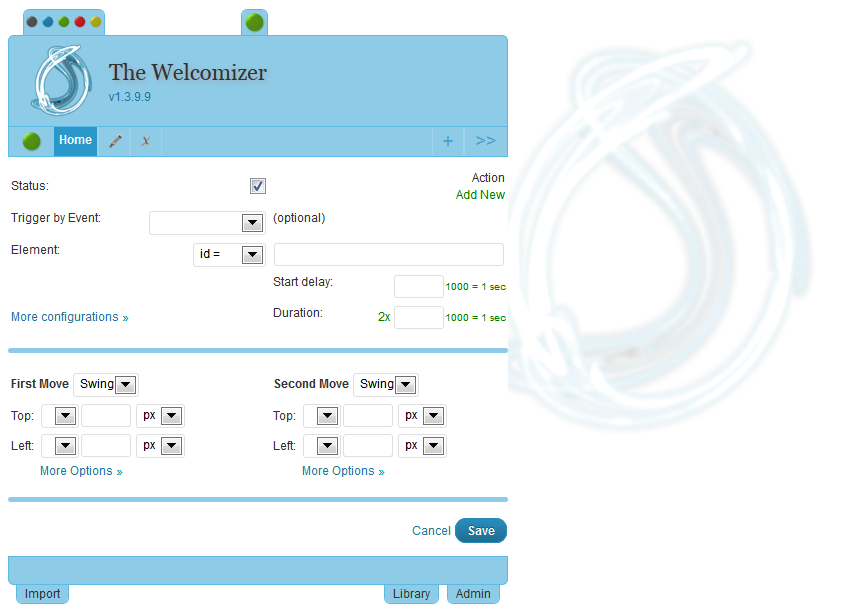
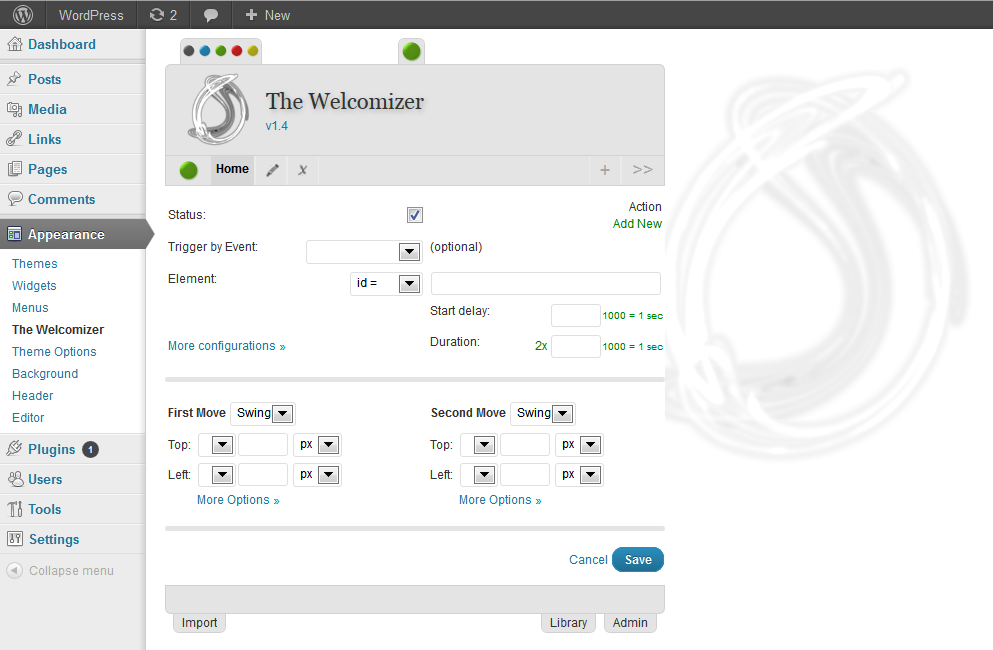
v1.4
git-svn-id: https://plugins.svn.wordpress.org/the-welcomizer/trunk@503533 b8457f37-d9ea-0310-8a92-e5e31aec5664

diff --git a/skins/_default/twiz-style.css b/skins/_default/twiz-style.css
@@ -17,7 +17,6 @@
     display: none;
 }
 .twiz-loading-gif {
-    display: none;
     width: 20px;
     height: 20px;
     margin: 0px 1px;
@@ -25,14 +24,7 @@
 .twiz-loading-gif-action {
     width: 20px;
     height: 20px;
-    display: none;
     margin: 0px 1px 0 2px;
-}
-.twiz-loading-gif-action-d {
-    width: 20px;
-    height: 20px;
-    display: none;
-    margin: 0px 1px 0 1px;
 }
 .twiz-clear {
     clear: both;
@@ -411,6 +403,7 @@
     width: 500px;
 }    
 .twiz_list_tr_action {
+    height: 20px;
     visibility: hidden;
     display: block;
 }
@@ -653,8 +646,7 @@ a.twiz-more-options:hover {
     font-size: 11px;
 }
 .twiz-loading-gif-save {
-    height: 15px;
-    width: 15px;
+    padding-right: 10px;
 }
 #twiz_td_full_chooseid img {
     margin-right: 5px;

diff --git a/skins/blue/twiz-style.css b/skins/blue/twiz-style.css
@@ -17,7 +17,6 @@
     display: none;
 }
 .twiz-loading-gif {
-    display: none;
     width: 20px;
     height: 20px;
     margin: 0px 1px;
@@ -25,14 +24,7 @@
 .twiz-loading-gif-action {
     width: 20px;
     height: 20px;
-    display: none;
     margin: 0px 1px 0 2px;
-}
-.twiz-loading-gif-action-d {
-    width: 20px;
-    height: 20px;
-    display: none;
-    margin: 0px 1px 0 1px;
 }
 .twiz-clear {
     clear: both;
@@ -410,6 +402,7 @@
     width: 500px;
 }    
 .twiz_list_tr_action {
+    height: 20px;
     visibility: hidden;
     display: block;
 }
@@ -652,8 +645,7 @@ a.twiz-more-options:hover {
     font-size: 11px;
 }
 .twiz-loading-gif-save {
-    height: 15px;
-    width: 15px;
+    padding-right: 10px;
 }
 #twiz_td_full_chooseid img {
     margin-right: 5px;

diff --git a/skins/green/twiz-style.css b/skins/green/twiz-style.css
@@ -17,7 +17,6 @@
     display: none;
 }
 .twiz-loading-gif {
-    display: none;
     width: 20px;
     height: 20px;
     margin: 0px 1px;
@@ -25,14 +24,7 @@
 .twiz-loading-gif-action {
     width: 20px;
     height: 20px;
-    display: none;
     margin: 0px 1px 0 2px;
-}
-.twiz-loading-gif-action-d {
-    width: 20px;
-    height: 20px;
-    display: none;
-    margin: 0px 1px 0 1px;
 }
 .twiz-clear {
     clear: both;
@@ -411,6 +403,7 @@
     width: 500px;
 }    
 .twiz_list_tr_action {
+    height: 20px;
     visibility: hidden;
     display: block;
 }
@@ -653,8 +646,7 @@ a.twiz-more-options:hover {
     font-size: 11px;
 }
 .twiz-loading-gif-save {
-    height: 15px;
-    width: 15px;
+    padding-right: 10px;
 }
 #twiz_td_full_chooseid img {
     margin-right: 5px;

diff --git a/skins/red/twiz-style.css b/skins/red/twiz-style.css
@@ -17,7 +17,6 @@
     display: none;
 }
 .twiz-loading-gif {
-    display: none;
     width: 20px;
     height: 20px;
     margin: 0px 1px;
@@ -25,14 +24,7 @@
 .twiz-loading-gif-action {
     width: 20px;
     height: 20px;
-    display: none;
     margin: 0px 1px 0 2px;
-}
-.twiz-loading-gif-action-d {
-    width: 20px;
-    height: 20px;
-    display: none;
-    margin: 0px 1px 0 1px;
 }
 .twiz-clear {
     clear: both;
@@ -411,6 +403,7 @@
     width: 500px;
 }    
 .twiz_list_tr_action {
+    height: 20px;
     visibility: hidden;
     display: block;
 }
@@ -653,8 +646,7 @@ a.twiz-more-options:hover {
     font-size: 11px;
 }
 .twiz-loading-gif-save {
-    height: 15px;
-    width: 15px;
+    padding-right: 10px;
 }
 #twiz_td_full_chooseid img {
     margin-right: 5px;

diff --git a/skins/yellow/twiz-style.css b/skins/yellow/twiz-style.css
@@ -17,7 +17,6 @@
     display: none;
 }
 .twiz-loading-gif {
-    display: none;
     width: 20px;
     height: 20px;
     margin: 0px 1px;
@@ -25,14 +24,7 @@
 .twiz-loading-gif-action {
     width: 20px;
     height: 20px;
-    display: none;
     margin: 0px 1px 0 2px;
-}
-.twiz-loading-gif-action-d {
-    width: 20px;
-    height: 20px;
-    display: none;
-    margin: 0px 1px 0 1px;
 }
 .twiz-clear {
     clear: both;
@@ -411,6 +403,7 @@
     width: 500px;
 }    
 .twiz_list_tr_action {
+    height: 20px;
     visibility: hidden;
     display: block;
 }
@@ -653,8 +646,7 @@ a.twiz-more-options:hover {
     font-size: 11px;
 }
 .twiz-loading-gif-save {
-    height: 15px;
-    width: 15px;
+    padding-right: 10px;
 }
 #twiz_td_full_chooseid img {
     margin-right: 5px;
